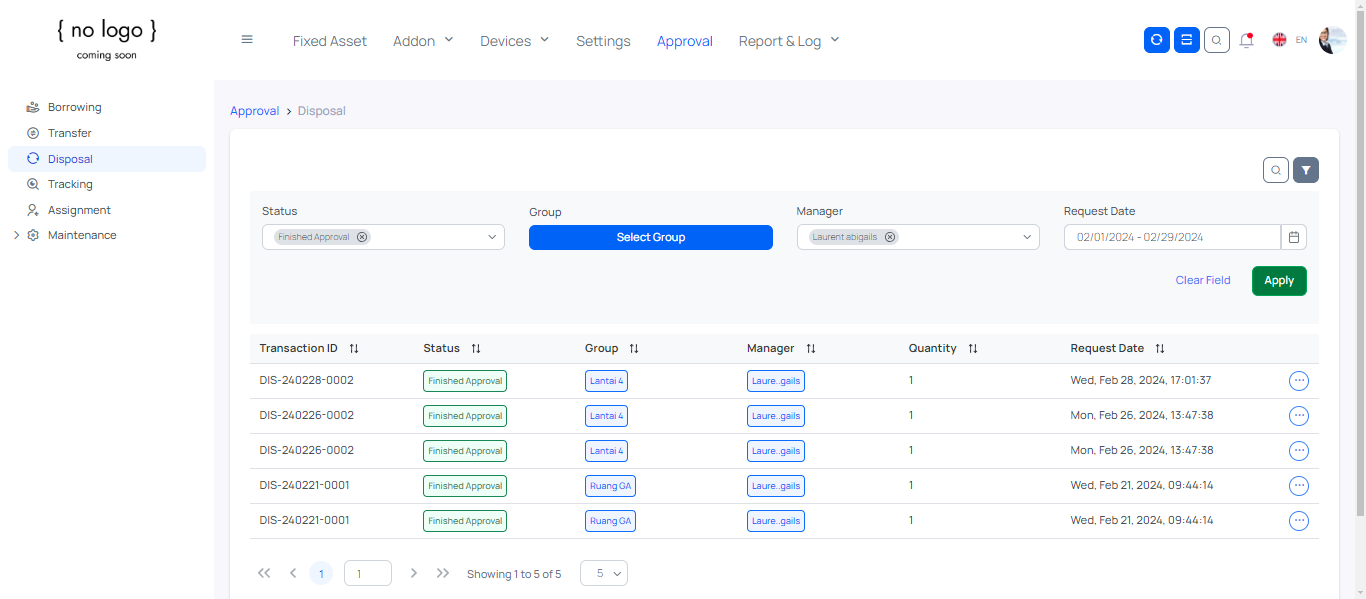
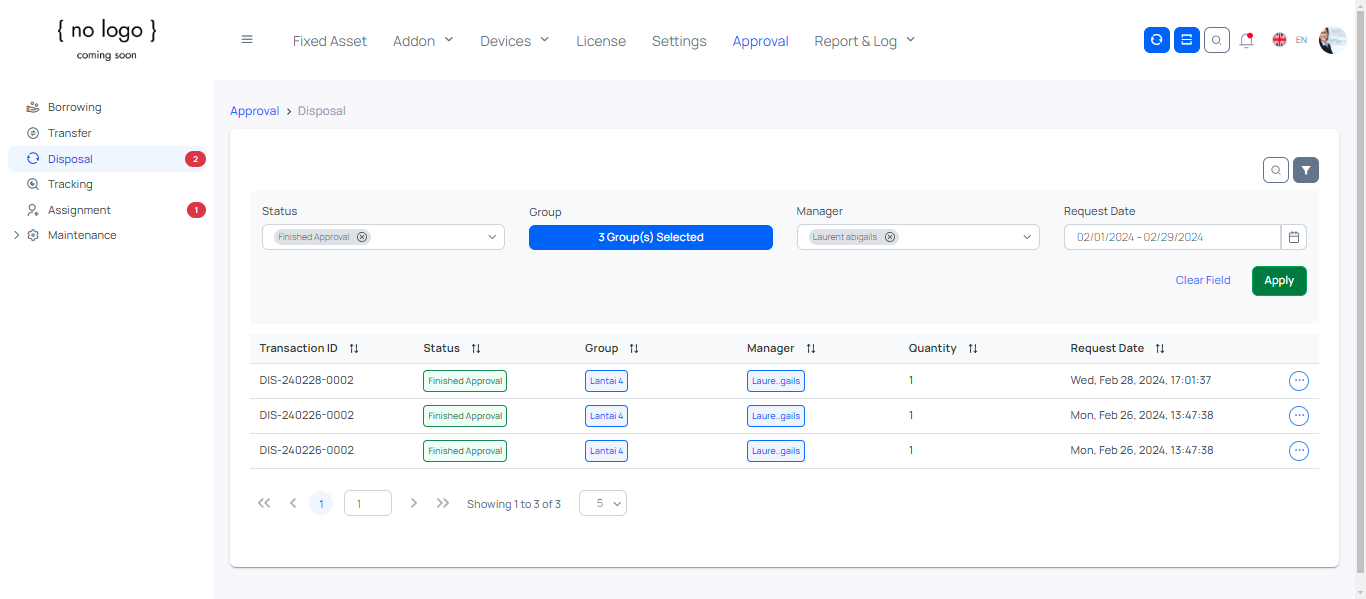
module approval filter

diff --git a/Object Repository/Menu Appoval borrowing/Object1360_select group b.rs b/Object Repository/Menu Appoval borrowing/Object1360_select group b.rs
@@ -1,0 +1,19 @@
+<?xml version="1.0" encoding="UTF-8"?>
+<WebElementEntity>
+   <description></description>
+   <name>Object1360_select group b</name>
+   <tag></tag>
+   <elementGuidId>30c09c1e-383b-4478-90c6-7e371fa42530</elementGuidId>
+   <selectorCollection>
+      <entry>
+         <key>BASIC</key>
+         <value></value>
+      </entry>
+      <entry>
+         <key>XPATH</key>
+         <value>/html/body/div[1]/div/div[2]/div[2]/div/div/div[2]/div[2]/div/div/div/div[2]/div/div/div[2]/button/span</value>
+      </entry>
+   </selectorCollection>
+   <selectorMethod>XPATH</selectorMethod>
+   <useRalativeImagePath>false</useRalativeImagePath>
+</WebElementEntity>

diff --git a/Object Repository/Menu approval scenario disposal/Object1361_select g d.rs b/Object Repository/Menu approval scenario disposal/Object1361_select g d.rs
@@ -1,0 +1,19 @@
+<?xml version="1.0" encoding="UTF-8"?>
+<WebElementEntity>
+   <description></description>
+   <name>Object1361_select g d</name>
+   <tag></tag>
+   <elementGuidId>d0b75d64-1314-4a97-b9ca-1bd027f6fae1</elementGuidId>
+   <selectorCollection>
+      <entry>
+         <key>BASIC</key>
+         <value></value>
+      </entry>
+      <entry>
+         <key>XPATH</key>
+         <value>/html/body/div[1]/div/div[2]/div[2]/div/div/div[2]/div[2]/div/div/div/div/div[2]/div/div[2]/button/span</value>
+      </entry>
+   </selectorCollection>
+   <selectorMethod>XPATH</selectorMethod>
+   <useRalativeImagePath>false</useRalativeImagePath>
+</WebElementEntity>

diff --git a/Object Repository/Menu approval assignment/Object1364_select g.rs b/Object Repository/Menu approval assignment/Object1364_select g.rs
@@ -1,0 +1,19 @@
+<?xml version="1.0" encoding="UTF-8"?>
+<WebElementEntity>
+   <description></description>
+   <name>Object1364_select g</name>
+   <tag></tag>
+   <elementGuidId>65755e15-ff95-464d-b6fa-2759c13ba0cf</elementGuidId>
+   <selectorCollection>
+      <entry>
+         <key>BASIC</key>
+         <value></value>
+      </entry>
+      <entry>
+         <key>XPATH</key>
+         <value>/html/body/div[1]/div/div[2]/div[2]/div/div/div[3]/div[2]/div/div/div/div[2]/div/div[2]/button/span</value>
+      </entry>
+   </selectorCollection>
+   <selectorMethod>XPATH</selectorMethod>
+   <useRalativeImagePath>false</useRalativeImagePath>
+</WebElementEntity>

diff --git a/Object Repository/Menu approval assignment/Object1365_apply g.rs b/Object Repository/Menu approval assignment/Object1365_apply g.rs
@@ -1,0 +1,19 @@
+<?xml version="1.0" encoding="UTF-8"?>
+<WebElementEntity>
+   <description></description>
+   <name>Object1365_apply g</name>
+   <tag></tag>
+   <elementGuidId>d31c33ed-2919-419e-9fb4-235b2dbd3458</elementGuidId>
+   <selectorCollection>
+      <entry>
+         <key>BASIC</key>
+         <value></value>
+      </entry>
+      <entry>
+         <key>XPATH</key>
+         <value>/html/body/div[7]/div/div[2]/div[2]/div/ul/li/ul/li[4]/div/span/div/div</value>
+      </entry>
+   </selectorCollection>
+   <selectorMethod>XPATH</selectorMethod>
+   <useRalativeImagePath>false</useRalativeImagePath>
+</WebElementEntity>

diff --git a/Object Repository/Menu Appoval borrowing/Object1359_lt 4 g.rs b/Object Repository/Menu Appoval borrowing/Object1359_lt 4 g.rs
@@ -1,0 +1,19 @@
+<?xml version="1.0" encoding="UTF-8"?>
+<WebElementEntity>
+   <description></description>
+   <name>Object1359_lt 4 g</name>
+   <tag></tag>
+   <elementGuidId>8b27a22e-f3db-4e2c-8831-5ac250c824c7</elementGuidId>
+   <selectorCollection>
+      <entry>
+         <key>BASIC</key>
+         <value></value>
+      </entry>
+      <entry>
+         <key>XPATH</key>
+         <value>/html/body/div[6]/div/div[2]/div[2]/div/ul/li/ul/li[4]/div/span/div/div</value>
+      </entry>
+   </selectorCollection>
+   <selectorMethod>XPATH</selectorMethod>
+   <useRalativeImagePath>false</useRalativeImagePath>
+</WebElementEntity>

diff --git a/Object Repository/Menu approval scenario disposal/Object1362_lt 4 d.rs b/Object Repository/Menu approval scenario disposal/Object1362_lt 4 d.rs
@@ -1,0 +1,19 @@
+<?xml version="1.0" encoding="UTF-8"?>
+<WebElementEntity>
+   <description></description>
+   <name>Object1362_lt 4 d</name>
+   <tag></tag>
+   <elementGuidId>51f8b17d-5267-4723-b790-8f106b9c3c2e</elementGuidId>
+   <selectorCollection>
+      <entry>
+         <key>BASIC</key>
+         <value></value>
+      </entry>
+      <entry>
+         <key>XPATH</key>
+         <value>/html/body/div[6]/div/div[2]/div[2]/div/ul/li/ul/li[3]/div/span/div/div</value>
+      </entry>
+   </selectorCollection>
+   <selectorMethod>XPATH</selectorMethod>
+   <useRalativeImagePath>false</useRalativeImagePath>
+</WebElementEntity>

diff --git a/Object Repository/Menu approval assignment/Object1366_apply g a.rs b/Object Repository/Menu approval assignment/Object1366_apply g a.rs
@@ -1,0 +1,19 @@
+<?xml version="1.0" encoding="UTF-8"?>
+<WebElementEntity>
+   <description></description>
+   <name>Object1366_apply g a</name>
+   <tag></tag>
+   <elementGuidId>6b5f7ada-039a-4186-ae27-095f115e077b</elementGuidId>
+   <selectorCollection>
+      <entry>
+         <key>BASIC</key>
+         <value></value>
+      </entry>
+      <entry>
+         <key>XPATH</key>
+         <value>/html/body/div[7]/div/div[3]/div/button[2]/span</value>
+      </entry>
+   </selectorCollection>
+   <selectorMethod>XPATH</selectorMethod>
+   <useRalativeImagePath>false</useRalativeImagePath>
+</WebElementEntity>

diff --git a/Object Repository/Menu Appoval borrowing/Object1361_apply g.rs b/Object Repository/Menu Appoval borrowing/Object1361_apply g.rs
@@ -1,0 +1,19 @@
+<?xml version="1.0" encoding="UTF-8"?>
+<WebElementEntity>
+   <description></description>
+   <name>Object1361_apply g</name>
+   <tag></tag>
+   <elementGuidId>678d7ebd-416e-410c-8053-e93532c6909d</elementGuidId>
+   <selectorCollection>
+      <entry>
+         <key>BASIC</key>
+         <value></value>
+      </entry>
+      <entry>
+         <key>XPATH</key>
+         <value>/html/body/div[6]/div/div[3]/div/button[2]/span</value>
+      </entry>
+   </selectorCollection>
+   <selectorMethod>XPATH</selectorMethod>
+   <useRalativeImagePath>false</useRalativeImagePath>
+</WebElementEntity>

diff --git a/Object Repository/Menu approval scenario disposal/Object1363_apply g.rs b/Object Repository/Menu approval scenario disposal/Object1363_apply g.rs
@@ -1,0 +1,19 @@
+<?xml version="1.0" encoding="UTF-8"?>
+<WebElementEntity>
+   <description></description>
+   <name>Object1363_apply g</name>
+   <tag></tag>
+   <elementGuidId>c343ff5d-87f5-415d-810f-6a74433cf3d9</elementGuidId>
+   <selectorCollection>
+      <entry>
+         <key>BASIC</key>
+         <value></value>
+      </entry>
+      <entry>
+         <key>XPATH</key>
+         <value>/html/body/div[6]/div/div[3]/div/button[2]/span</value>
+      </entry>
+   </selectorCollection>
+   <selectorMethod>XPATH</selectorMethod>
+   <useRalativeImagePath>false</useRalativeImagePath>
+</WebElementEntity>
